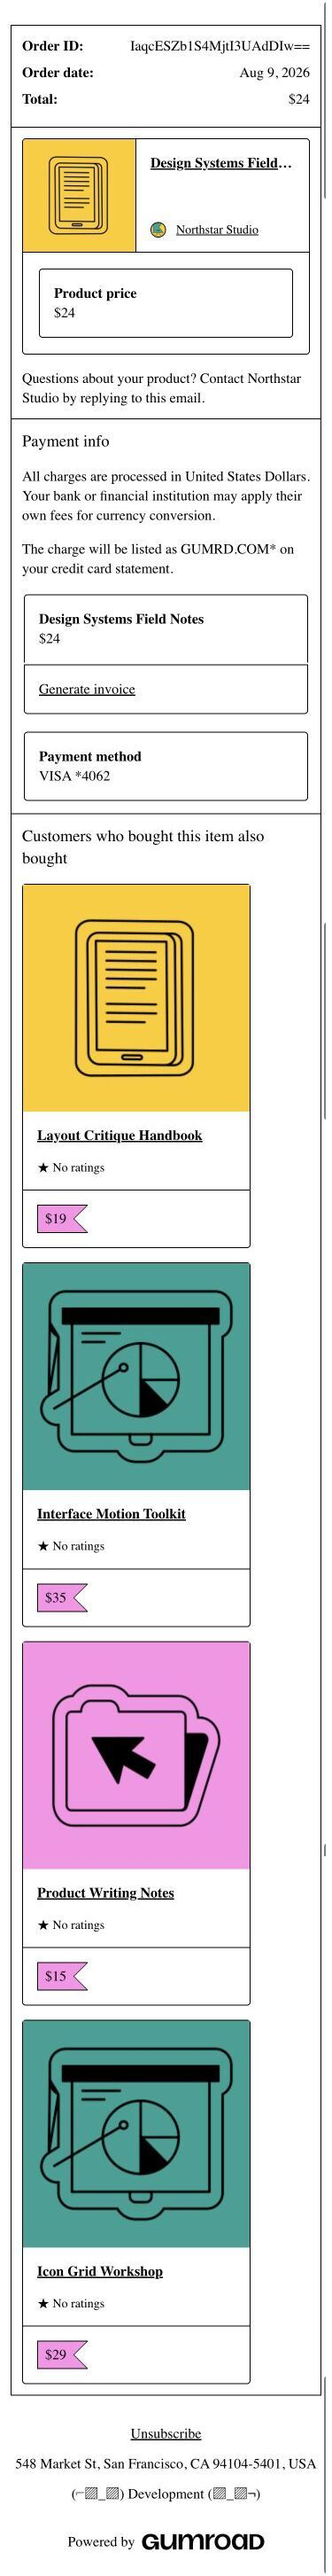
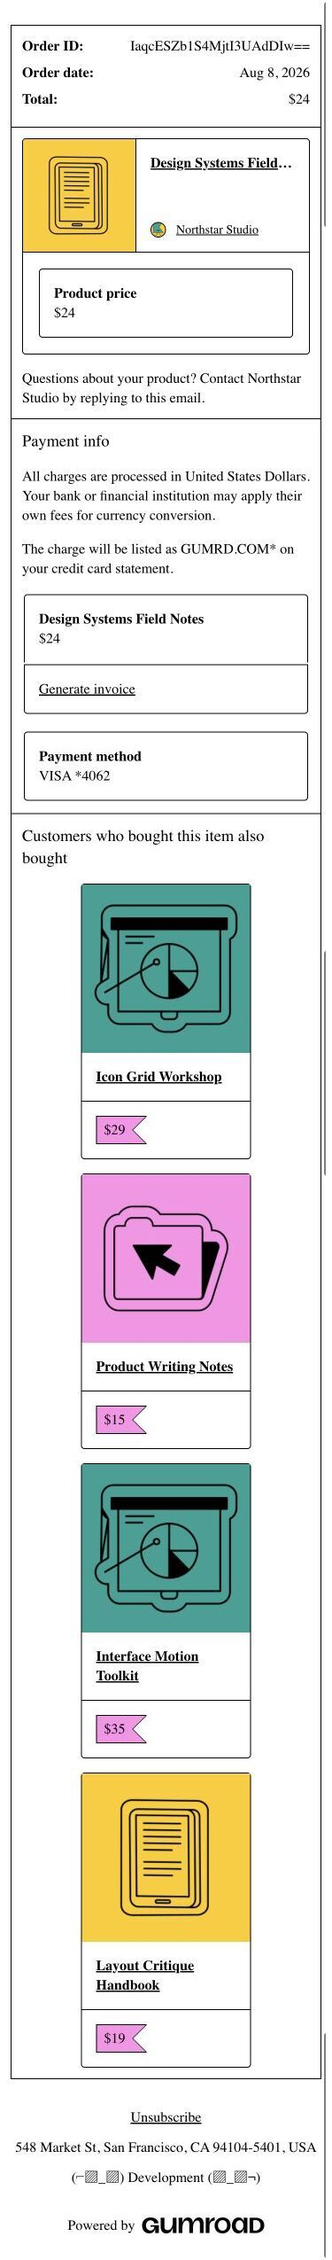
Center receipt cards and hide empty ratings

diff --git a/app/javascript/stylesheets/_email.scss b/app/javascript/stylesheets/_email.scss
@@ -256,8 +256,19 @@ $accent-color: map-get($colors, "pink"); // [1]
         width: 100%;
 
         // [5]
+        & > tbody,
+        & > tbody > tr {
+          display: block;
+          width: 100%;
+        }
+
+        & > tbody > tr {
+          margin-bottom: 0;
+        }
+
         & > tbody > tr > td {
           display: block;
+          width: 100%;
         }
 
         & > tbody > tr > td.product-card-cell-with-gap {
@@ -265,6 +276,11 @@ $accent-color: map-get($colors, "pink"); // [1]
         }
 
         @include breakpoint-up(sm) {
+          & > tbody,
+          & > tbody > tr {
+            display: revert !important;
+          }
+
           // [2]
           & > tbody > tr > td {
             display: revert !important;
@@ -284,6 +300,13 @@ $accent-color: map-get($colors, "pink"); // [1]
             padding-bottom: spacer(4) !important;
           }
         }
+      }
+
+      .product-card-table {
+        width: 100%;
+        max-width: size(12);
+        margin-right: auto !important;
+        margin-left: auto !important;
       }
     }
 

diff --git a/spec/mailers/customer_mailer_spec.rb b/spec/mailers/customer_mailer_spec.rb
@@ -312,14 +312,16 @@ describe CustomerMailer do
       context "when there are recommended products" do
         let(:recommended_seller) { create(:recommendable_user, name: "Recommended seller") }
         let(:recommendable_products) do
-          create_list(
+          products = create_list(
             :product,
             4,
-            :recommendable,
+            :with_films_taxonomy,
             user: recommended_seller,
             name: "Recommended product",
             price_cents: 9_99,
           )
+          products.each { create(:purchase, link: _1, created_at: 1.week.ago) }
+          products.each(&:reload)
         end
         let!(:affiliate) do
           create(
@@ -327,6 +329,16 @@ describe CustomerMailer do
             seller: recommended_seller,
             products: recommendable_products,
             affiliate_user: create(:user),
+          )
+        end
+        let!(:product_review_stat) do
+          create(
+            :product_review_stat,
+            link: recommendable_products.first,
+            reviews_count: 2,
+            average_rating: 4.5,
+            ratings_of_four_count: 1,
+            ratings_of_five_count: 1,
           )
         end
 
@@ -351,7 +363,8 @@ describe CustomerMailer do
           expect(mail.body.sanitized).to have_text("Customers who bought this item also bought")
           expect(mail.body.sanitized).to have_text("$9.99")
 
-          rows = Nokogiri::HTML(mail.body.decoded).css("table.two-product-card-table > tbody > tr")
+          html = Nokogiri::HTML(mail.body.decoded)
+          rows = html.css("table.two-product-card-table > tbody > tr")
           expect(rows.map { _1.xpath("./td").size }).to eq([2, 2])
           expect(rows.map { _1["class"].to_s.split }).to eq([["product-card-row-with-gap"], []])
           cell_classes = rows.flat_map { _1.xpath("./td") }.map { _1["class"].to_s.split }
@@ -362,6 +375,8 @@ describe CustomerMailer do
             [],
           ]
           expect(cell_classes).to eq(expected_cell_classes)
+          expect(html.css("table.product-card-table").map { _1["align"] }).to eq(["center"] * 4)
+          expect(html.css(".rating").map { _1.text.squish }).to eq(["★ 4.5 (2)"])
         end
       end
     end
